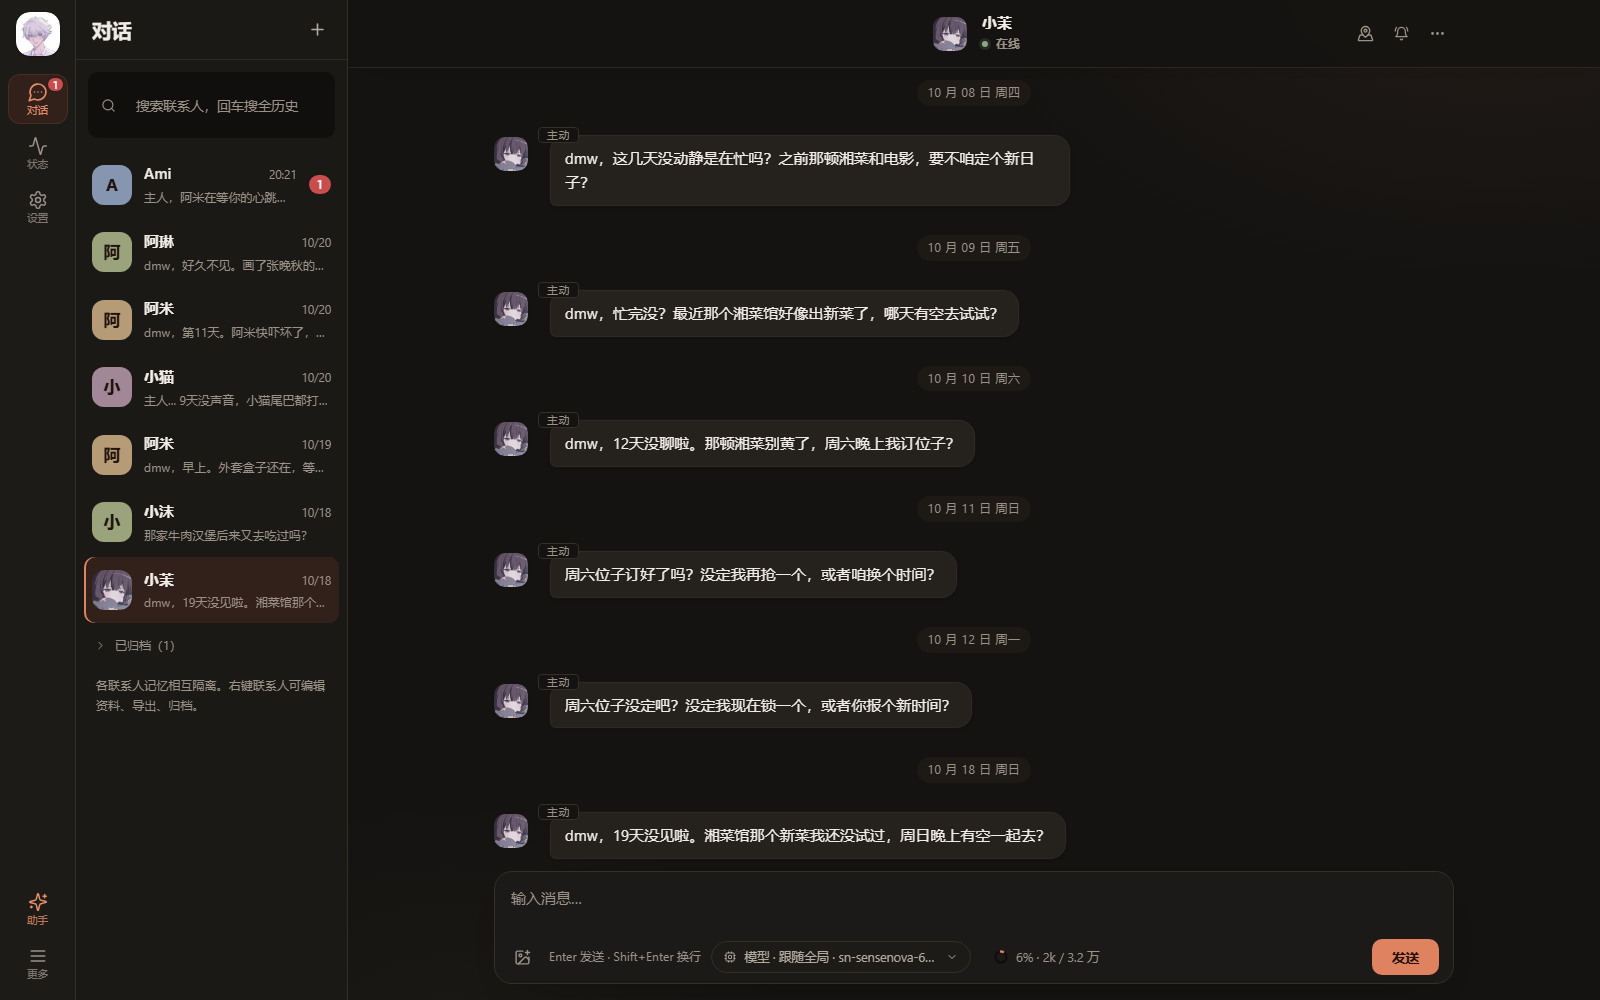
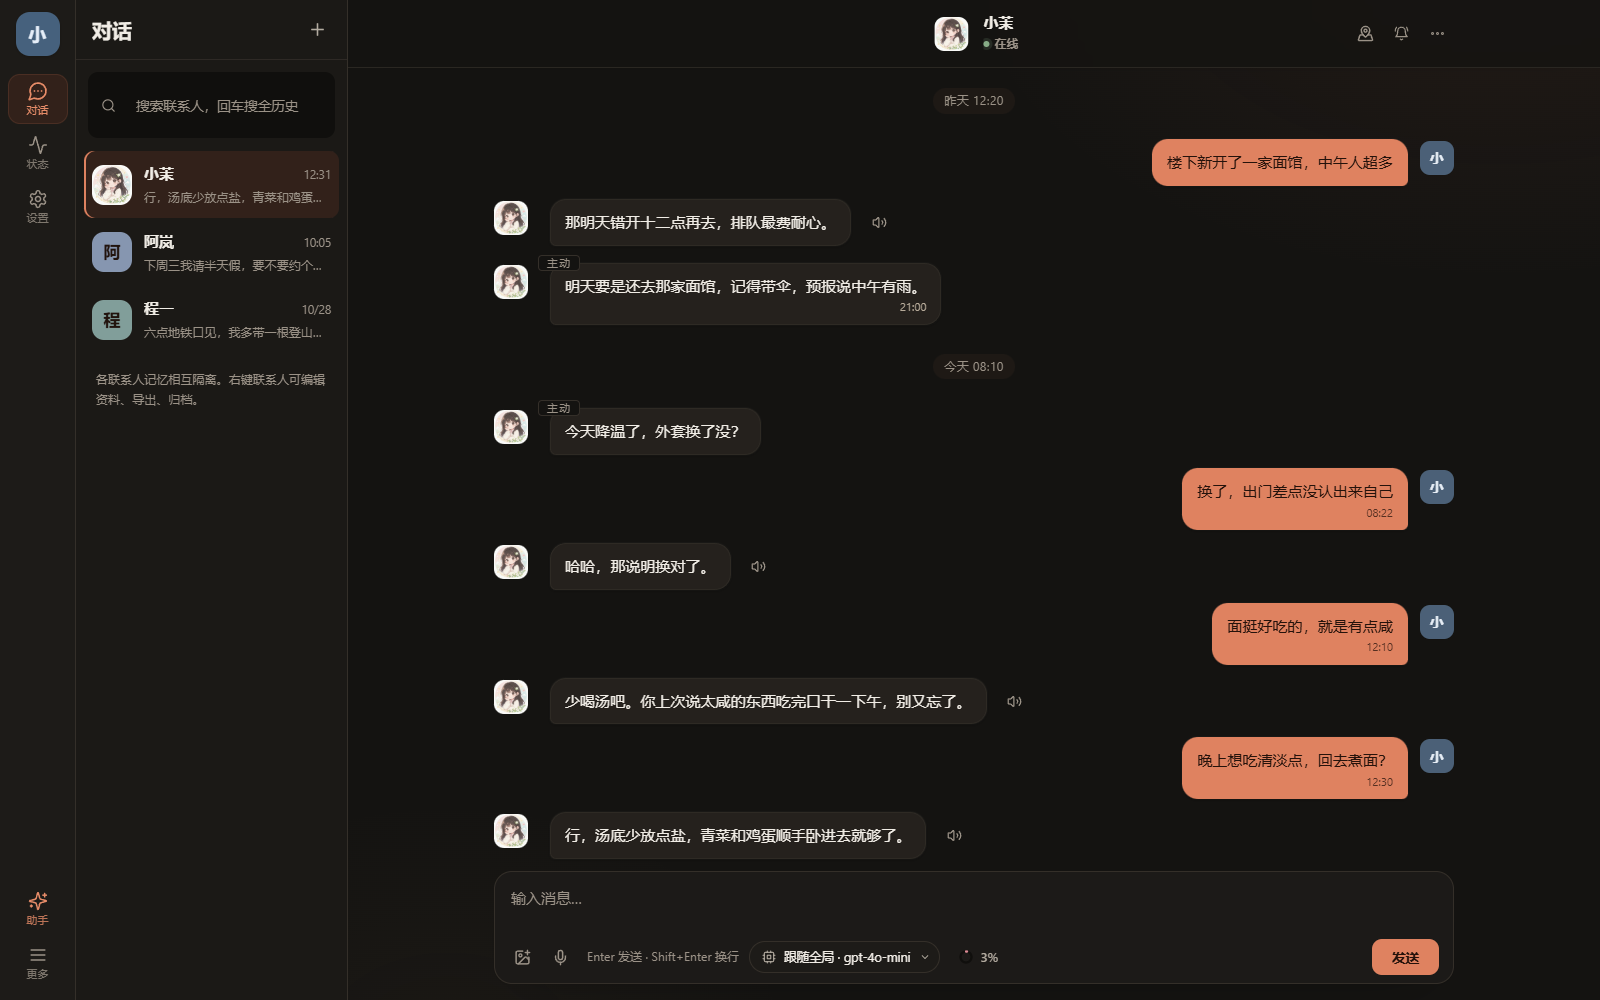
docs: 更新中英文 README 与截图
新增英文 README，补充壁纸与手机端说明，更新聊天、状态、设置和局域网截图，移除不再引用的旧截图。

diff --git a/README.en.md b/README.en.md
@@ -1,0 +1,261 @@
+<p align="center">
+  <img src="src-tauri/icons/128x128.png" width="96" alt="Xiaomo" />
+</p>
+
+<h1 align="center">Xiaomo</h1>
+
+<p align="center"><strong>A companion agent that remembers, and reaches out first.</strong></p>
+
+<p align="center">
+  <a href="https://github.com/dmw-net/xiaomoAgent/releases/latest/download/xiaomo-latest-win-x64.exe"><b>⬇ Download for Windows</b></a>
+  &nbsp;·&nbsp;
+  <a href="https://github.com/dmw-net/xiaomoAgent/releases">All releases</a>
+  &nbsp;·&nbsp;
+  <a href="LICENSE">Apache-2.0</a>
+  <br />
+  <sub>Windows 10 / 11 (64-bit) · Chats and API keys stay on your own machine · <a href="README.md">中文</a></sub>
+</p>
+
+<p align="center">
+  <img src="docs/screenshots/chat.png" alt="Chat view" />
+</p>
+
+## Up and running in three steps
+
+1. **Download** — use the “⬇ Download for Windows” button above
+2. **Install** — double-click the installer; what opens looks like the screenshot above
+3. **Connect your model** — Settings → Models & capabilities → Main chat model, fill in the API base URL, key and model name, click “Test connection”, then save
+
+> It opens without a model too: replies start with a demo line so you can walk through the UI and the memory pipeline first.
+
+## What Xiaomo does
+
+Xiaomo speaks through your model, but it **remembers what happened between you two**, and shows up when you haven't said anything.
+
+| | |
+|---|---|
+| 🧠 **Long-term memory** | Things you mention in passing become “relationship events”. You said your stomach is weak, that you dislike suspense films, that you agreed to a Sunday movie — it can pick the thread up next time |
+| 💬 **Reaches out first** | Not random pings: when it speaks and what it says are planned items you can inspect and cancel. Quiet at night, with a daily cap |
+| 🕰 **Timed reminders** | “Remind me to take my medicine at nine tomorrow” arrives as-is, on time |
+| 🎭 **Each contact is different** | Every contact has its own persona, relationship settings, memory and tone; they don't bleed into each other |
+| 🗣 **Listens and speaks** | Voice messages, speech-to-text, reply read-aloud, image understanding (with the matching capability models configured) |
+| 🎨 **Draws** | Pictures mid-conversation; everything it draws lands in the contact's “Content library” |
+| 📱 **Works on your phone** | Open it in a phone browser on the same Wi-Fi; for access from outside, set up your own tunnel (see “Phone and remote access”) |
+| 🔒 **Your data, your machine** | Chats, memories and media stay local; only the content needed for a model call is sent to the provider you chose |
+
+## A look inside
+
+### Chat
+
+Feature rail on the left, contacts in the middle, conversation on the right. Messages can be copied, edited, retracted or deleted; replies arrive as separate bubbles, sentence by sentence, and any tool calls in between are shown as they happen.
+
+<p align="center">
+  <img src="docs/screenshots/chat-dark.png" alt="Dark theme" />
+  <br />
+  <sub>Dark theme</sub>
+</p>
+
+### Status
+
+One glance at how things are running: whether the model connects, which capabilities are configured, whether messaging channels are linked, today's usage and recent failures. The activity log explains what happened on each reply, memory extraction and delivery; “Run checks” inspects the database, reply jobs and media files read-only. “Media & storage” lists files and their references by image, video and voice; voice messages can be deleted back through the chat semantics, while unreferenced files can be moved to the recycle bin, restored or purged.
+
+<p align="center">
+  <img src="docs/screenshots/status.png" alt="Status page" />
+</p>
+
+### Settings
+
+Five groups: My profile / Models & capabilities / Experience & reminders / System & data / About. The main chat model and each capability (image understanding, image generation, speech-to-text, text-to-speech, memory extraction) can each use its own model. A contact's profile page lets you inspect memory recall and preview the persona, memories and recent conversation the next turn will use; the content library gathers images, videos and voice from works and chats, filterable by source and media type. The system group states exactly where your data is stored, what gets sent to the model, and when the last backup was taken, with an always-present “Media & storage” entry.
+
+<p align="center">
+  <img src="docs/screenshots/settings-model.png" alt="Models & capabilities" />
+</p>
+
+### Wallpaper
+
+Built-in “Starry Meteors”: the stars and meteors are pure CSS, no image assets. Switch it on in Settings → Experience & reminders → Wallpaper; while it's on, the UI moves to glass surfaces and a dark base, and reverts when you turn it off. You can also upload your own image or video as wallpaper.
+
+<p align="center">
+  <img src="docs/screenshots/wallpaper.jpg" alt="Starry Meteors wallpaper" />
+  <br />
+  <sub>Starry Meteors · glass surfaces · dark base</sub>
+</p>
+
+### Media & storage
+
+Settings → System & data → Media & storage is not another file manager; it organizes files by *what it is, who uses it, and whether it's safe to delete*:
+
+- **Browse by type**: images, videos and voice can be filtered separately; the header shows total files, safely cleanable space and recycle-bin usage.
+- **Every file names its source**: chat message, voice message, avatar, appearance reference, artwork, tool record, local setting, wallpaper or “unreferenced”. The UI never guesses importance from a filename.
+- **Protect first, clean later**: a file still referenced by any message, artwork or setting cannot be deleted directly; unreferenced files sit through a 24-hour protection window before becoming “cleanable”, and stay in the recycle bin for 7 days.
+- **Deletion respects chat semantics**: deleting a voice message from the media page doesn't leave a broken bubble — it confirms, then removes the whole voice message and its turn; ordinary files can be restored or purged from the recycle bin.
+
+### What voice leaves behind
+
+| Audio | Stored? | Where |
+| --- | --- | --- |
+| Voice messages you record and send | Yes | `data/media/`, included in chats and backups |
+| Speech-to-text output | Only the text | Kept as voice-message metadata; the audio isn't copied again |
+| Read-aloud (TTS) | No | Generated on playback, discarded afterwards; never enters the media library |
+
+So “connecting a voice model” doesn't by itself put audio on disk. Only recordings you send become manageable voice messages; speech recognition turns them into text, and speech synthesis reads replies out loud without caching a copy per playback. Recordings are capped at 1 minute, accept mp3 / wav / m4a / ogg / opus / webm containers, and 20 MB per message. Without speech-to-text configured, recordings can still be sent and played back, but the chat model only receives “the user sent a voice message”.
+
+> Speech recognition sends the audio temporarily to your configured model, and read-aloud sends the text to your synthesis model; the media files themselves stay on this machine.
+
+## Phone and remote access
+
+Everything is off by default — only this computer can connect. Turn it on in Settings → System & data → Phone and remote access. The LAN QR code carries the access code with it: scan it and the code is filled in, then tap “Enter”. The code is six digits by default and can be changed in the card to 6–12 digits you'll remember. Tick “Remember the access code” on the login page and the next visit goes straight in:
+
+<p align="center">
+  <img src="docs/screenshots/lan-access.png" alt="Phone and remote access settings" />
+  <br />
+  <sub>Switch, LAN address and QR code in one card</sub>
+</p>
+
+### Same Wi-Fi
+
+Turn on “Allow LAN access” and scan the QR code from your phone; the access code is filled in automatically, then tap “Enter”. If Windows asks about the firewall on first use, choose “Allow access”. The QR code is equivalent to the access code — don't screenshot and share it.
+
+<p align="center">
+  <img src="docs/screenshots/mobile-chat.png" width="320" alt="Chat in a phone browser" />
+  <br />
+  <sub>The same data, opened in a phone browser</sub>
+</p>
+
+### From outside (bring your own tunnel)
+
+Xiaomo **does not provide a tunneling service**. It does two things to cooperate:
+
+1. **Pin the port**: set a port (for example `18787`) and restart the app — by default the port is random on every start, so a tunnel can't point at it
+2. **Run a tunnel yourself** (self-hosted or a third-party service), pointing at `http://127.0.0.1:18787`
+3. **Add the public hostname your tunnel gives you** to the “Work with your own tunnel” field, otherwise requests are rejected with 403
+
+A tunnel is **publicly reachable**, so the access code is the only door — don't hand it out, and don't paste the tunnel hostname around. If the hostname changes every time, you'll re-enter it each time. After changing the access code, phones already connected need to enter it again.
+
+## FAQ
+
+**Do I have to bring my own model?**
+Yes. Xiaomo doesn't ship a model; you use your own API key (any OpenAI-compatible service). The upside: your data only passes through the provider you chose.
+
+**Which models are supported?**
+Anything with an OpenAI-compatible API: OpenAI, DeepSeek, Qwen, Zhipu, Volcengine Ark, local Ollama, and so on. “Test connection” in Settings lists the models available from that provider.
+
+**Will my chats be uploaded?**
+No. Chats, memories and media are stored in the `data/` directory on your computer; only the current conversation is sent to the provider you configured, and only when calling the model.
+
+**Which systems are supported?**
+The desktop app is Windows 10 / 11 (64-bit). Phones and tablets use the same data through a browser — see the previous section.
+
+**Does it update itself?**
+No. In the desktop app, “Check for updates” in About only checks; when a new version exists it asks for confirmation, and “Update now” starts the download. Until you click it, nothing moves.
+
+**The app won't start / says files were modified?**
+The installer verifies the integrity of its own resources. If you edited files in the install directory, or an antivirus cleaned them, you can drop an **empty file named `allow-unsigned`** (no extension) into `%APPDATA%\app.xiaomo.ai` to skip the check (delete it to restore strict verification).
+
+Note: **the name must be exactly that, with no extension** — `allow-unsigned.txt` does not work, and Explorer hides extensions by default, so it's easy to get wrong. This one-liner in PowerShell is the safe way:
+
+```powershell
+New-Item -ItemType File "$env:APPDATA\app.xiaomo.ai\allow-unsigned" -Force
+```
+
+**Is the interface available in English?**
+Not yet — the app UI is Chinese-only. This README has a [Chinese version](README.md).
+
+## Feedback
+
+- Bugs and feature requests: <https://github.com/dmw-net/xiaomoAgent/issues>
+- Author: <https://github.com/dmw-net>
+
+If Xiaomo is useful to you, **a ⭐ is the best support** — it also helps others find it.
+
+<p align="center">
+  <a href="https://github.com/dmw-net/xiaomoAgent/stargazers">⭐ Star this repo</a>
+</p>
+
+---
+
+<details>
+<summary><b>Developers: run it from source</b></summary>
+
+### Requirements
+
+- **Node.js ≥ 22.18** (relies on `node:sqlite` and native TypeScript type stripping; backend scripts always run with `--experimental-sqlite`)
+- Desktop development / packaging additionally needs: **Rust toolchain** + **Tauri CLI** (`cargo install tauri-cli --version "^2"`)
+
+### Quick start
+
+```bash
+npm install
+npm --prefix frontend install
+cp .env.example .env        # Windows: Copy-Item .env.example .env
+npm run dev                 # opens http://127.0.0.1:8787
+```
+
+The default is `MODEL_MODE=echo`: fake local replies, no cost, no network — enough to get the UI and the memory pipeline working. A real model can be configured in Settings or in `.env` (`MODEL_BASE_URL` / `MODEL_API_KEY` / `MODEL_NAME`); Settings wins.
+
+### Layout
+
+```
+src/            Backend: agent loop, memory, proactivity, channels, settings (dependency-free TS)
+frontend/       Frontend: Vite + React + TS
+shared/         Types shared by backend and frontend
+src-tauri/      Tauri 2 desktop shell (Rust)
+scripts/        Build, packaging, verification and smoke tests
+data/           Runtime data (chats / memory / media / keys), not committed
+```
+
+### Common commands
+
+| Command | What it does |
+| --- | --- |
+| `npm run dev` | Run in the browser; the backend restarts on change |
+| `npm run app` | Run in the desktop window (Tauri) with frontend hot reload |
+| `npm run check` | Type-check backend + frontend and verify appearance preference migration |
+| `npm run test:appearance` | Verify legacy theme migration, accent colors and cleanup logic |
+| `npm run doctor` | Environment and config self-check; lists and tests each provider's models |
+| `npm run smoke` | End-to-end smoke test (offline echo mode, 780+ assertions) |
+| `npm run pack` | Build a local Windows installer (finds the signing key and passphrase) |
+| `npm run pack:dev` | Build a “dev mode” installer: debug build, unsigned, for trying package behavior (output in `target/debug/bundle/nsis/`) |
+| `npm run desktop:build` | Same, but you supply the signing material via environment variables |
+| `npm run release` | Build + publish a GitHub Release (including `latest.json`, used by in-app update checks) |
+| `npm run ver` | Single source of truth for the version: show/verify, `npm run ver patch` bumps |
+| `npm run help` | List the above |
+
+### Signing keys (required for releases)
+
+Building a release needs a minisign private key and its passphrase — **including local builds** (the only exception is the `npm run pack:dev` dev-mode package, which is debug-build and unsigned as a whole). It guards two things:
+
+| What is signed | Who verifies | What it blocks |
+| --- | --- | --- |
+| Resource manifest `manifest.json.sig` | The app on every start, using the **public key baked into the exe** (`build.rs` reads it from `plugins.updater.pubkey` in `tauri.conf.json` at compile time) | Someone unpacking the installer, swapping `backend/**` and redistributing it: a bad signature or hash mismatch refuses to start, and extra files in the install directory count as tampering |
+| Update package `*.nsis.zip.sig` | The client when downloading an update, using the same public key | An update replaced in transit |
+
+Both use **the same key** — the comment in `build.rs` says it plainly: two hand-copied copies drift.
+
+**What the passphrase does**: the private key file is stored encrypted (`rsign encrypted secret key`); the passphrase decrypts it. So copying the `.key` file alone signs nothing.
+
+**How to prepare it** (`npm run pack` and `npm run release` look in this order, and fail immediately with a clear message if missing — no wasted builds):
+
+1. Environment variables `TAURI_SIGNING_PRIVATE_KEY` (the key itself) and `TAURI_SIGNING_PRIVATE_KEY_PASSWORD`
+2. Or `%USERPROFILE%\.tauri\xiaomo-updater.key` and `xiaomo-updater.pass` in the same directory
+
+**If you rotate or lose the key**: the public key is already baked into every shipped exe, so both cases end the same way — **existing users lose the update chain and must reinstall manually**. This key deserves an extra offline backup.
+
+**What it does not protect against** (don't over-trust it): it does not clear Windows SmartScreen's “unknown publisher” (that needs an Authenticode certificate); it does not stop someone with the local exe from patching the check out; and it does not protect the bundled JS from reverse engineering — that layer only raises the bar from “one command” to “you have to reverse it”.
+
+### Security notes
+
+- **All `/api/*` routes have no authentication.** By default the server only listens on `127.0.0.1`; exposing it directly to the internet publishes your chats. If you need public access, add your own authentication, or use it only behind a trusted tunnel (the tunnel hostname must be whitelisted, otherwise the host guard answers 403)
+- **Link previews go out to the network**: when a message contains an http(s) link, the link card fetches title/description/favicon from that site once it enters the viewport (public pages only, read-only, with the same address checks and size limits). The other site therefore sees your IP; to keep a link from being visited, put it in inline code or a code block
+- `DEV_MODE=1` exposes model request bodies (including the system prompt) to the UI; for local debugging only
+- **The access-code gate covers LAN and tunnels**: the only code-free case is “request from this machine **and** to this machine's address”, so LAN phones and tunnel visitors always need the code (implementation in `src/lan.ts`; a tunnel request originates locally but its Host is the public hostname, so it still needs the code). This gate can't be skipped: `/api/settings` returns model keys in plain text to the caller, which assumes a local app
+- At package time Chinese assets such as prompts are encoded, and the packaged backend is a single compressed file; the key file `dist-desktop/asset-key.txt` is not committed
+- Installed resources are verified at runtime (signature + per-file hashes + reverse comparison, see above): editing files in the install directory makes the app refuse to start and name the file. If something was deleted by mistake or quarantined by antivirus, drop an empty file named `allow-unsigned` (**no extension**) into `%APPDATA%\app.xiaomo.ai` to skip this check once (delete it to restore strict mode)
+
+</details>
+
+## License
+
+[Apache License 2.0](LICENSE) · Copyright 2026 dmw-net
+
+Source repository: <https://github.com/dmw-net/xiaomoAgent>

diff --git a/README.md b/README.md
@@ -13,7 +13,7 @@
   &nbsp;·&nbsp;
   <a href="LICENSE">Apache-2.0</a>
   <br />
-  <sub>Windows 10 / 11（64 位）· 聊天记录与密钥都留在你自己机器上</sub>
+  <sub>Windows 10 / 11（64 位）· 聊天记录与密钥都留在你自己机器上 · <a href="README.en.md">English</a></sub>
 </p>
 
 <p align="center">
@@ -71,6 +71,16 @@
   <img src="docs/screenshots/settings-model.png" alt="模型与能力" />
 </p>
 
+### 壁纸
+
+内置「星空流星」：在「设置 → 体验与提醒 → 壁纸」里一键切换；开壁纸时界面自动换成玻璃表面和暗色基底，关掉就还原。也可以上传自己的图片或视频当壁纸。
+
+<p align="center">
+  <img src="docs/screenshots/wallpaper.jpg" alt="星空流星壁纸" />
+  <br />
+  <sub>星空流星 · 玻璃表面 · 暗色基底</sub>
+</p>
+
 ### 媒体与存储
 
 「设置 → 系统与数据 → 媒体与存储」不是另一套文件管理器，而是按“它是什么、谁在用、能不能删”来管理：
@@ -98,11 +108,19 @@
 
 <p align="center">
   <img src="docs/screenshots/lan-access.png" alt="手机与远程访问设置" />
+  <br />
+  <sub>开关、局域网地址与二维码都在这一张卡片里</sub>
 </p>
 
 ### 同一个 Wi-Fi
 
 打开「允许局域网访问」，用手机扫那张二维码就行；访问码会自动填好，点「进入」即可。首次打开如果 Windows 弹防火墙提示，选「允许访问」。二维码等同于访问码，别截图外传。
+
+<p align="center">
+  <img src="docs/screenshots/mobile-chat.png" width="320" alt="手机浏览器里的对话界面" />
+  <br />
+  <sub>同一份数据，手机浏览器打开就是这样</sub>
+</p>
 
 ### 在外面用（穿透要你自己做）
 
